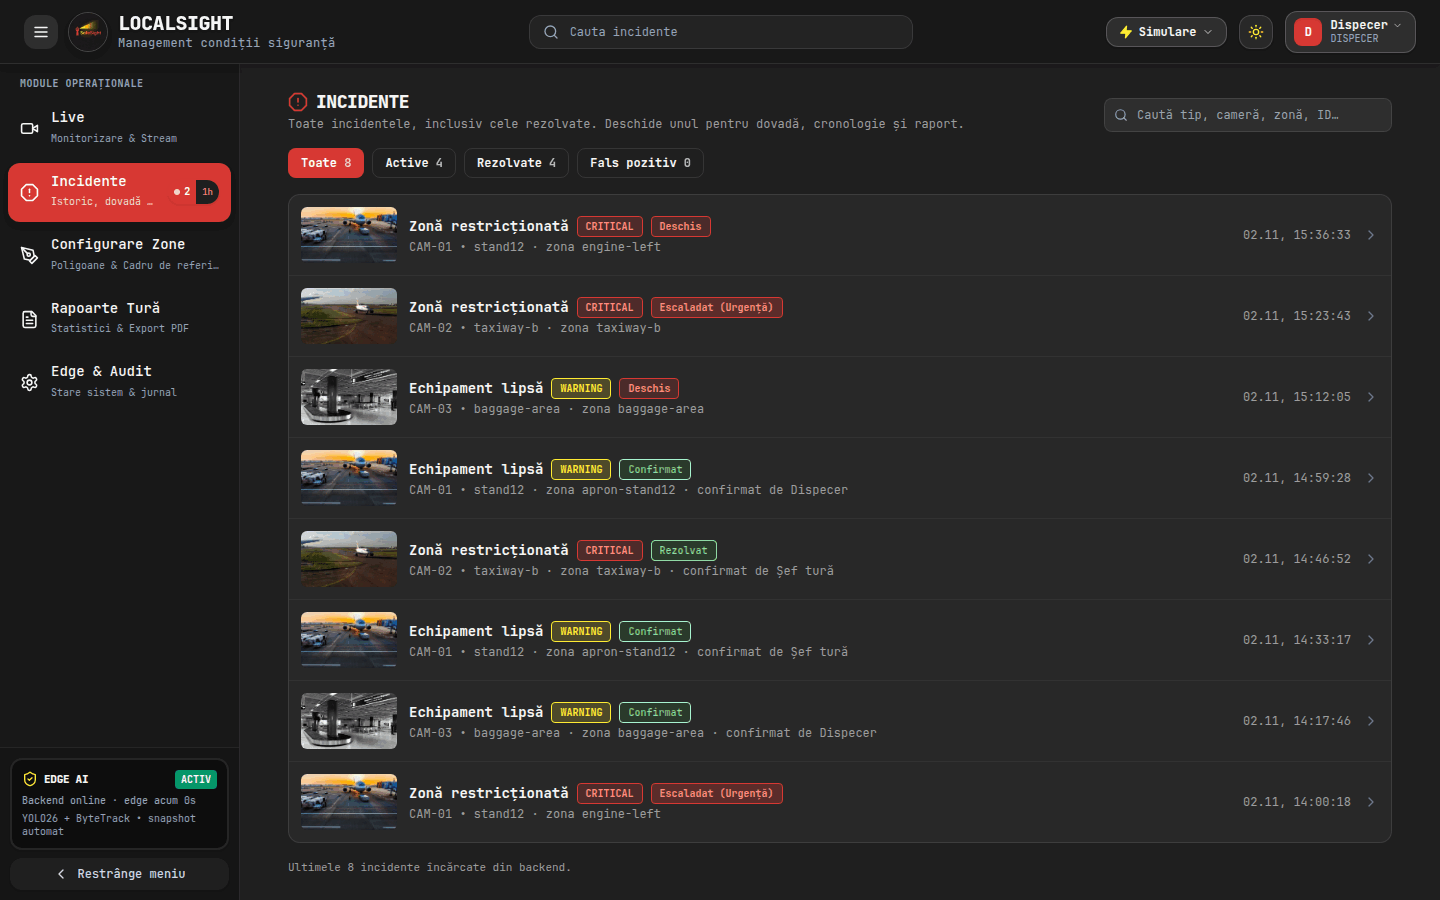
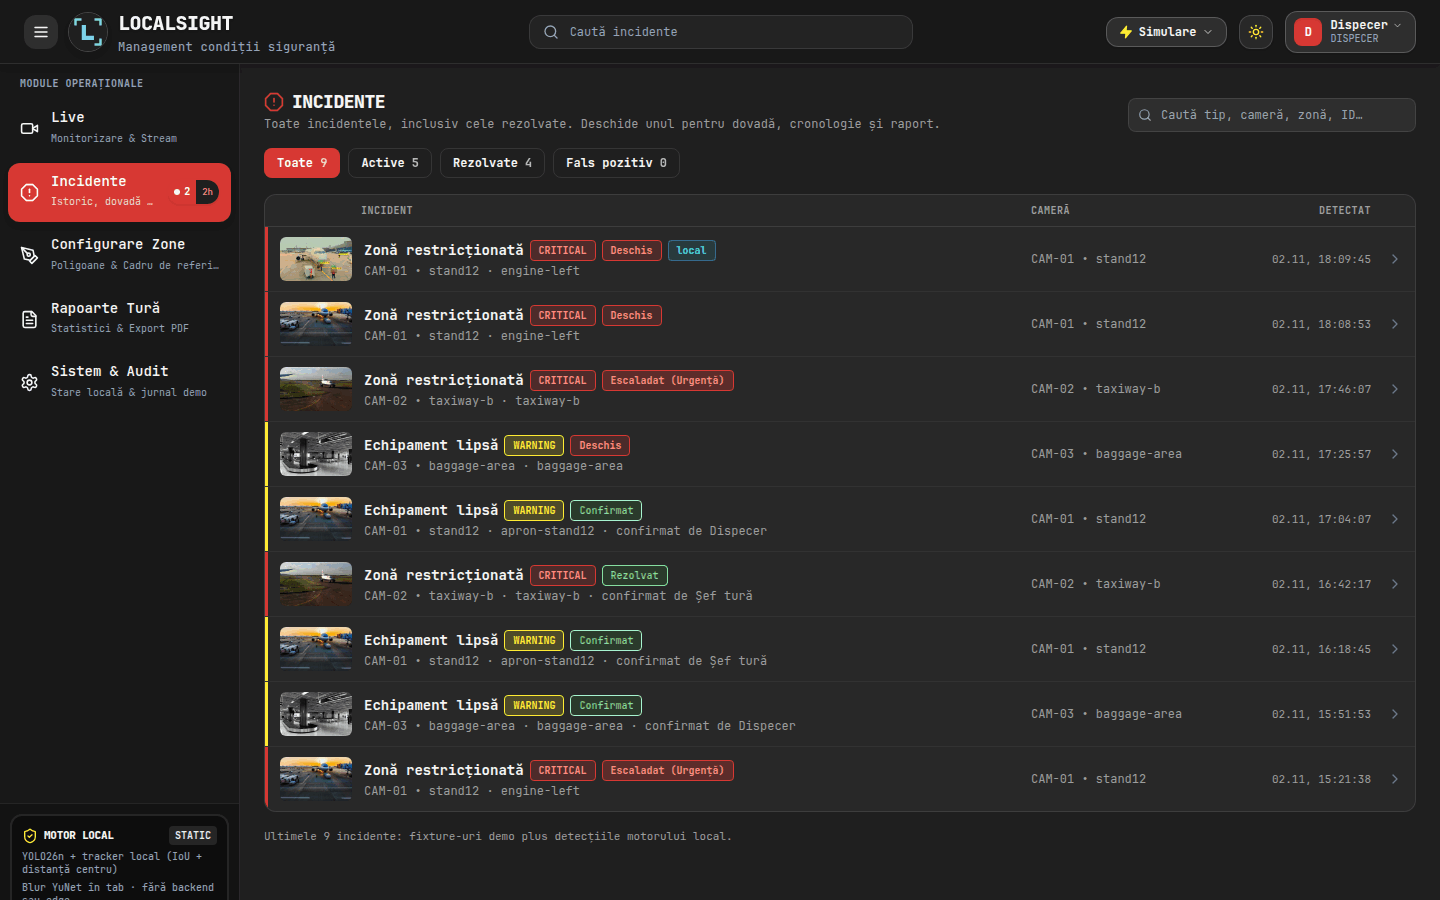
live: mark engine incidents inside the feed; refresh the README screenshots

diff --git a/frontend/src/components/views/LiveView.jsx b/frontend/src/components/views/LiveView.jsx
@@ -1118,7 +1118,7 @@ export default function LiveView() {
               {USE_MOCK && (
                 <>
                   <span aria-hidden="true" className="text-slate-400">·</span>
-                  <DemoDataChip title="Cardurile sunt date demo din fixtures, nu detecție din clip. Detecția reală apare doar în motorul din browser, când îl pornești." />
+                  <DemoDataChip title="Cardurile fără eticheta „local” sunt date demo din fixtures. Cele cu „local” sunt produse de motorul din browser, când îl pornești." />
                 </>
               )}
             </h2>
@@ -1231,6 +1231,14 @@ export default function LiveView() {
                         >
                           {STATUS_TOKENS[ev.status]?.label || ev.status}
                         </span>
+                        {ev.local && (
+                          <span
+                            className="text-[9px] font-bold px-1.5 py-0.5 rounded border border-[#33E1FF]/40 bg-[#33E1FF]/10 text-cyan-700 dark:text-[#33E1FF]"
+                            title="Produs de motorul din browser în această sesiune; nu e un fixture demo."
+                          >
+                            local
+                          </span>
+                        )}
                       </div>
 
                       <span className="font-mono text-[10px] text-slate-400">
